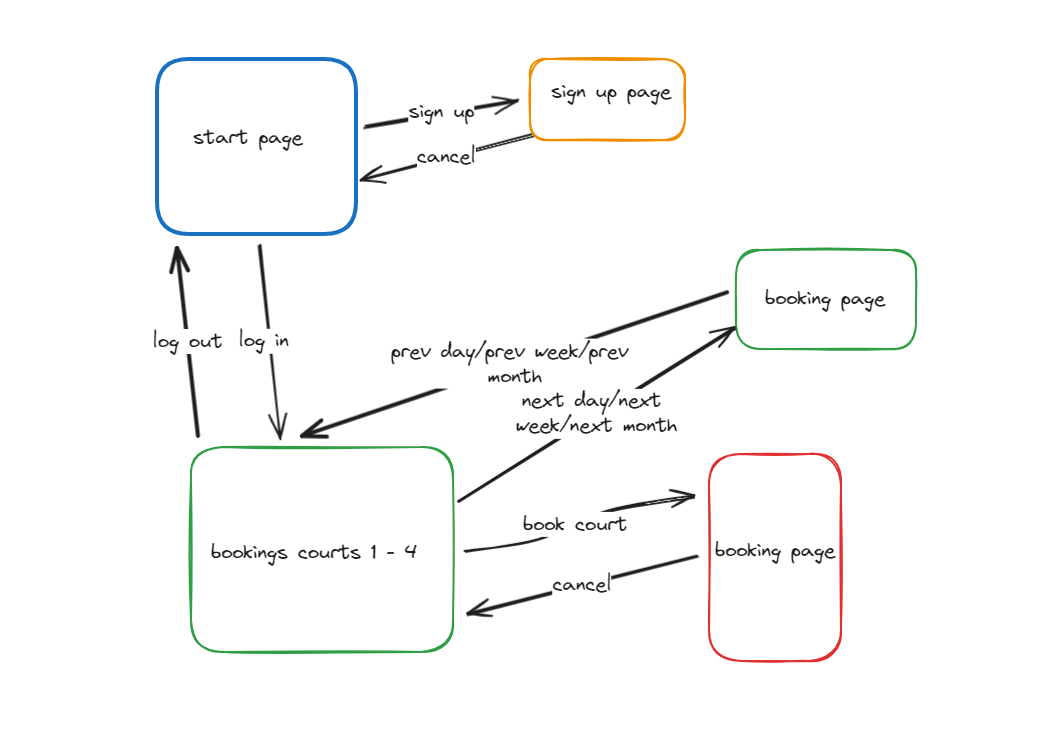
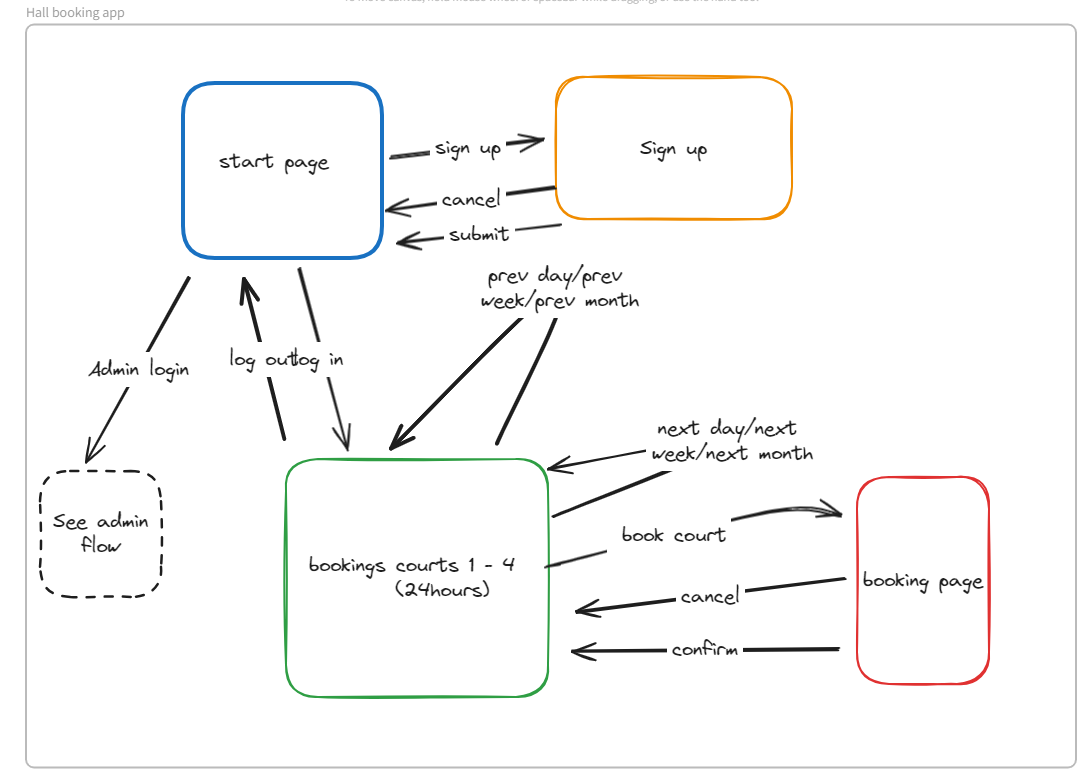
Updated flow chart
finished flow chart

diff --git a/Design.md b/Design.md
@@ -18,7 +18,7 @@ There is a problem where the current hall booking website does not work on mobil
 ### End-User Requirements
 
 The Richmond hall owner and usual users are the clients. The hall owner has an website set up for the usual users to book the courts with their accounts but whenever someone new wants to create an account they have to call the hall owner to open an account. The usual users also struggle to use this website on their mobile devices.  
-The hall users will want to see clearly what times on what dates they can book, they will also want to easily navigate through the website. For example, they should be able to go the next week, next day. 
+The hall users will want to see clearly what times on what dates they can book, they will also want to easily navigate through the website. For example, they should be able to go the next week, next day. they should also be able to delete their booking too. 
 The hall owner will like so the usual users and other users can use this website without doing anything himself.  
 
 ### Proposed Solution
@@ -29,6 +29,7 @@ clients should be able to do:
  - create an account 
  - log in/out of their account 
  - view what dates they can book
+ - Delete/cancel their bookings 
 
 what the all owner should be able to do:
 - see all accounts registered

diff --git a/development.md b/development.md
@@ -21,7 +21,15 @@ I am designing my database and navigations of the website/app.
 
 Replace this text with notes describing how you acted upon the user feedback: made changes to design, etc.
 
+This will be the general flow of the website for users. 
+
 ![Alt text](images/flow.png)
+
+### 23/05/2024
+
+The admin will have a different log in, when the admin logs in the admin flow will look like this. 
+
+![Alt text](images/admin-flow.png)
 
 ### DATE HERE
 
